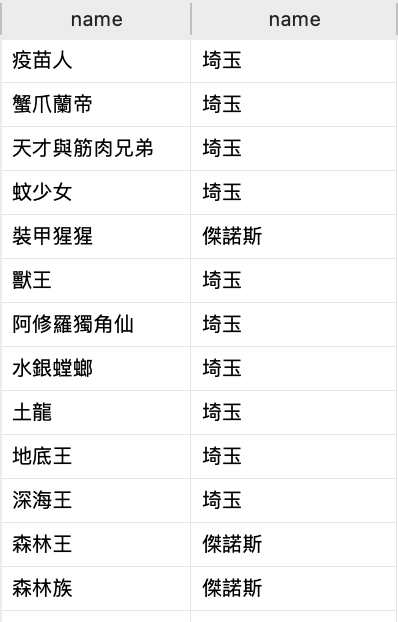
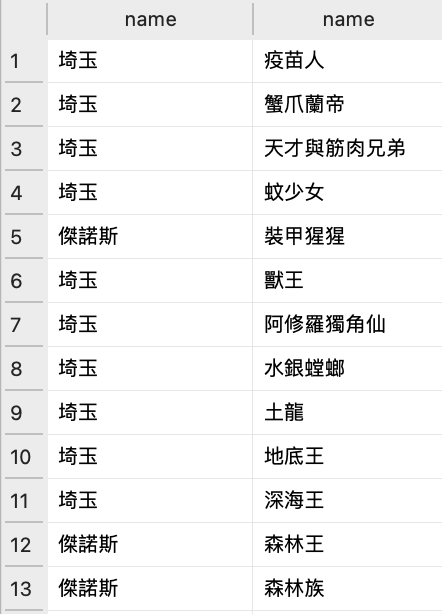
修正sql上跟下

diff --git a/blog/sqltwo/index.html b/blog/sqltwo/index.html
@@ -208,7 +208,7 @@
 </span></span></span><span style="display:flex;"><span><span style="color:#bbb">    </span><span style="color:#007020;font-weight:bold">FROM</span><span style="color:#bbb"> </span>heroes<span style="color:#bbb">
 </span></span></span><span style="display:flex;"><span><span style="color:#bbb">    </span><span style="color:#007020;font-weight:bold">WHERE</span><span style="color:#bbb"> </span>name<span style="color:#bbb">  </span><span style="color:#007020;font-weight:bold">in</span><span style="color:#bbb"> </span>(<span style="color:#4070a0">&#34;埼玉&#34;</span>,<span style="color:#4070a0">&#34;傑諾斯&#34;</span>)<span style="color:#bbb">
 </span></span></span><span style="display:flex;"><span><span style="color:#bbb"></span>);<span style="color:#bbb">
-</span></span></span></code></pre></div><p>以下為連結(join)的方法運用</p>
+</span></span></span></code></pre></div><p><strong>以下為連結(join)的方法運用</strong></p>
 <ul>
 <li>第一種：</li>
 </ul>
@@ -219,19 +219,25 @@
 </span></span></span><span style="display:flex;"><span><span style="color:#bbb"></span><span style="color:#007020;font-weight:bold">on</span><span style="color:#bbb"> </span>heroes.id<span style="color:#bbb"> </span><span style="color:#666">=</span><span style="color:#bbb"> </span>monsters.kill_by;<span style="color:#bbb">
 </span></span></span></code></pre></div><p><img src="/images/sql7.png" alt=""></p>
 <p>當然也可以選擇自己想要的欄位：</p>
-<div class="highlight"><pre tabindex="0" style="background-color:#f0f0f0;-moz-tab-size:4;-o-tab-size:4;tab-size:4;"><code class="language-sql" data-lang="sql"><span style="display:flex;"><span><span style="color:#007020;font-weight:bold">SELECT</span><span style="color:#bbb">  </span>monsters.name<span style="color:#bbb"> </span>,<span style="color:#bbb">  </span>heroes.name<span style="color:#bbb">
+<div class="highlight"><pre tabindex="0" style="background-color:#f0f0f0;-moz-tab-size:4;-o-tab-size:4;tab-size:4;"><code class="language-sql" data-lang="sql"><span style="display:flex;"><span><span style="color:#007020;font-weight:bold">SELECT</span><span style="color:#bbb">  </span>heroes.name<span style="color:#bbb"> </span>,monsters.name<span style="color:#bbb">
 </span></span></span><span style="display:flex;"><span><span style="color:#bbb"></span><span style="color:#007020;font-weight:bold">FROM</span><span style="color:#bbb"> </span>heroes<span style="color:#bbb">
 </span></span></span><span style="display:flex;"><span><span style="color:#bbb"></span><span style="color:#007020;font-weight:bold">INNER</span><span style="color:#bbb"> </span><span style="color:#007020;font-weight:bold">JOIN</span><span style="color:#bbb"> </span>monsters<span style="color:#bbb">
 </span></span></span><span style="display:flex;"><span><span style="color:#bbb"></span><span style="color:#007020;font-weight:bold">on</span><span style="color:#bbb"> </span>heroes.id<span style="color:#bbb"> </span><span style="color:#666">=</span><span style="color:#bbb"> </span>monsters.kill_by;<span style="color:#bbb">
 </span></span></span></code></pre></div><p><img src="/images/sql8.png" alt=""></p>
 <p>第二種：</p>
 <p>因爲是 LEFT JOIN 會以左邊的資料表為主來顯示全部資料，右邊的資料表如果有比對到就會有資料，沒有就會顯示 NULL:</p>
-<div class="highlight"><pre tabindex="0" style="background-color:#f0f0f0;-moz-tab-size:4;-o-tab-size:4;tab-size:4;"><code class="language-sql" data-lang="sql"><span style="display:flex;"><span><span style="color:#007020;font-weight:bold">SELECT</span><span style="color:#bbb"> </span>monsters.name<span style="color:#bbb"> </span>,<span style="color:#bbb">  </span>heroes.name<span style="color:#bbb">
+<div class="highlight"><pre tabindex="0" style="background-color:#f0f0f0;-moz-tab-size:4;-o-tab-size:4;tab-size:4;"><code class="language-sql" data-lang="sql"><span style="display:flex;"><span><span style="color:#007020;font-weight:bold">SELECT</span><span style="color:#bbb"> </span><span style="color:#666">*</span><span style="color:#bbb">
 </span></span></span><span style="display:flex;"><span><span style="color:#bbb"></span><span style="color:#007020;font-weight:bold">FROM</span><span style="color:#bbb"> </span>heroes<span style="color:#bbb">
 </span></span></span><span style="display:flex;"><span><span style="color:#bbb"></span><span style="color:#007020;font-weight:bold">LEFT</span><span style="color:#bbb"> </span><span style="color:#007020;font-weight:bold">JOIN</span><span style="color:#bbb"> </span>monsters<span style="color:#bbb">
 </span></span></span><span style="display:flex;"><span><span style="color:#bbb"></span><span style="color:#007020;font-weight:bold">on</span><span style="color:#bbb"> </span>heroes.id<span style="color:#bbb"> </span><span style="color:#666">=</span><span style="color:#bbb"> </span>monsters.kill_by;<span style="color:#bbb">
 </span></span></span></code></pre></div><p><img src="/images/sql9.png" alt=""></p>
-<p>還可以加條件把 heroes 資料表裡，有比對到的資料剔除：</p>
+<p>還可以加條件把 monsters 資料表裡 monsters.kill_by 等於 NULL 刪除，等同於 INNER JOIN 只顯示有比對到的資料：</p>
+<div class="highlight"><pre tabindex="0" style="background-color:#f0f0f0;-moz-tab-size:4;-o-tab-size:4;tab-size:4;"><code class="language-sql" data-lang="sql"><span style="display:flex;"><span><span style="color:#007020;font-weight:bold">SELECT</span><span style="color:#bbb"> </span><span style="color:#666">*</span><span style="color:#bbb">
+</span></span></span><span style="display:flex;"><span><span style="color:#bbb"></span><span style="color:#007020;font-weight:bold">FROM</span><span style="color:#bbb"> </span>heroes<span style="color:#bbb">
+</span></span></span><span style="display:flex;"><span><span style="color:#bbb"></span><span style="color:#007020;font-weight:bold">LEFT</span><span style="color:#bbb"> </span><span style="color:#007020;font-weight:bold">JOIN</span><span style="color:#bbb"> </span>monsters<span style="color:#bbb">
+</span></span></span><span style="display:flex;"><span><span style="color:#bbb"></span><span style="color:#007020;font-weight:bold">on</span><span style="color:#bbb"> </span>heroes.id<span style="color:#bbb"> </span><span style="color:#666">=</span><span style="color:#bbb"> </span>monsters.kill_by<span style="color:#bbb">
+</span></span></span><span style="display:flex;"><span><span style="color:#bbb"></span><span style="color:#007020;font-weight:bold">WHERE</span><span style="color:#bbb"> </span>monsters.kill_by<span style="color:#bbb"> </span><span style="color:#007020;font-weight:bold">NOT</span><span style="color:#bbb"> </span><span style="color:#007020;font-weight:bold">NULL</span>;<span style="color:#bbb">
+</span></span></span></code></pre></div><p>也可以把 monsters 資料表裡 monsters.kill_by 等於 NULL 的資料留下，意思是 heroes 資料表裡有跟 monsters 比對到的資料都剔除，只剩下沒比對到的資料：</p>
 <div class="highlight"><pre tabindex="0" style="background-color:#f0f0f0;-moz-tab-size:4;-o-tab-size:4;tab-size:4;"><code class="language-sql" data-lang="sql"><span style="display:flex;"><span><span style="color:#007020;font-weight:bold">SELECT</span><span style="color:#bbb"> </span><span style="color:#666">*</span><span style="color:#bbb">
 </span></span></span><span style="display:flex;"><span><span style="color:#bbb"></span><span style="color:#007020;font-weight:bold">FROM</span><span style="color:#bbb"> </span>heroes<span style="color:#bbb">
 </span></span></span><span style="display:flex;"><span><span style="color:#bbb"></span><span style="color:#007020;font-weight:bold">LEFT</span><span style="color:#bbb"> </span><span style="color:#007020;font-weight:bold">JOIN</span><span style="color:#bbb"> </span>monsters<span style="color:#bbb">

diff --git a/blog/sqlone/index.html b/blog/sqlone/index.html
@@ -172,7 +172,7 @@
 <div class="highlight"><pre tabindex="0" style="background-color:#f0f0f0;-moz-tab-size:4;-o-tab-size:4;tab-size:4;"><code class="language-sql" data-lang="sql"><span style="display:flex;"><span><span style="color:#007020;font-weight:bold">SELECT</span><span style="color:#bbb"> </span><span style="">查詢欄位</span><span style="color:#bbb"> </span><span style="color:#007020;font-weight:bold">FROM</span><span style="color:#bbb">  </span><span style="">資料表名稱</span><span style="color:#bbb"> </span>;<span style="color:#bbb">
 </span></span></span></code></pre></div><p>下方這段的意思是我要 heroes 資料表的所有欄位＊。</p>
 <div class="highlight"><pre tabindex="0" style="background-color:#f0f0f0;-moz-tab-size:4;-o-tab-size:4;tab-size:4;"><code class="language-sql" data-lang="sql"><span style="display:flex;"><span><span style="color:#007020;font-weight:bold">SELECT</span><span style="color:#bbb"> </span><span style="color:#666">*</span><span style="color:#bbb"> </span><span style="color:#007020;font-weight:bold">FROM</span><span style="color:#bbb">  </span>heroes<span style="color:#bbb"> </span>;<span style="color:#bbb">
-</span></span></span></code></pre></div><p>可配合挑件來篩選，意思是我只要 heroes 這個資料表， hero_level 這個欄位裡面的值等於 &ldquo;S&quot;的資料，並把所以的欄位選出來。</p>
+</span></span></span></code></pre></div><p>可配合挑件來篩選，意思是我只要 heroes 這個資料表， hero_level 這個欄位裡面的值等於 &ldquo;S&quot;的資料，並把所有的欄位顯示出來。</p>
 <div class="highlight"><pre tabindex="0" style="background-color:#f0f0f0;-moz-tab-size:4;-o-tab-size:4;tab-size:4;"><code class="language-sql" data-lang="sql"><span style="display:flex;"><span><span style="color:#007020;font-weight:bold">SELECT</span><span style="color:#bbb"> </span><span style="color:#666">*</span><span style="color:#bbb"> </span><span style="color:#007020;font-weight:bold">FROM</span><span style="color:#bbb"> </span>heroes<span style="color:#bbb">
 </span></span></span><span style="display:flex;"><span><span style="color:#bbb"></span><span style="color:#007020;font-weight:bold">WHERE</span><span style="color:#bbb"> </span>hero_level<span style="color:#bbb"> </span><span style="color:#666">=</span><span style="color:#bbb"> </span><span style="color:#4070a0">&#34;S&#34;</span>;<span style="color:#bbb">
 </span></span></span></code></pre></div><p><img src="/images/sql2.png" alt=""></p>
